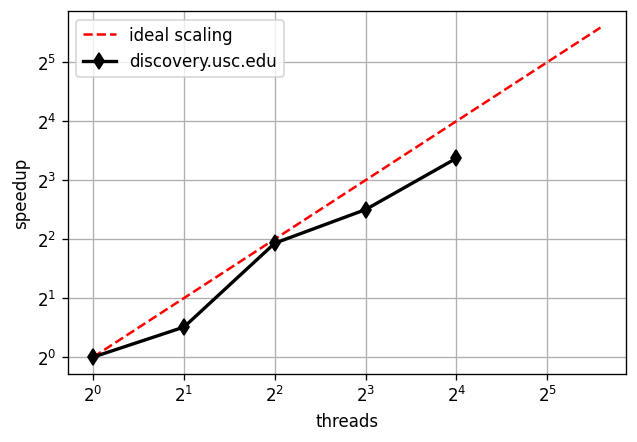
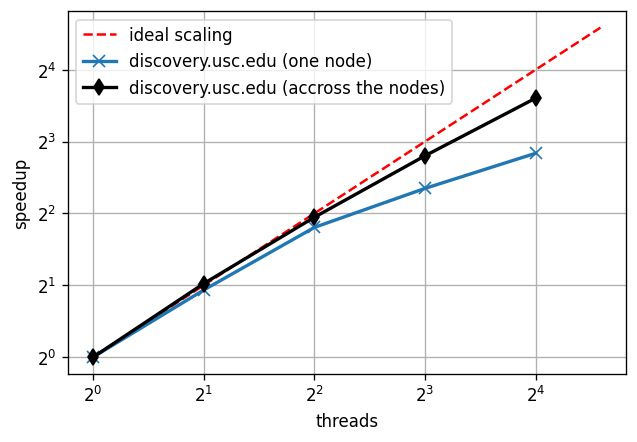
scalability accross the nodes - results

diff --git a/benchmarks/emulator/scalability_benchmark.py b/benchmarks/emulator/scalability_benchmark.py
@@ -20,7 +20,7 @@ class Emulator(ray.tune.Trainable):
     def setup(self, config):
         """Setup."""
         conf = global_config.Config(
-            datasets_path=os.path.realpath(os.path.expanduser(args.datasets_path)),
+            datasets_path=config['datasets_path'],
             model_name="demo-gru",
             hidden_size=config['hidden'],
             dropout_rate=config['dropout'],

diff --git a/benchmarks/emulator/README.md b/benchmarks/emulator/README.md
@@ -63,11 +63,27 @@ Where we specified to use 4 CPUs (see `python scalability_benchmark.py -h` to se
 
 ## Results
 
-We tested the scalability on the USC Discovery cluster running on 
+We tested the scalability on the USC Discovery cluster.
+We performed two experiments, one across the nodes (with the fixed number of cores per node),
+and second for one node (changing the number of available processors).
 
 ![Emulator Benchmark](../../figures/emulator_benchmark.png "Emulator Scalability Benchmark")
 
+The scalability across the nodes is close to ideal. The measured network
+traffic between two nodes was about 200 kB/s (for the central node the
+measured network traffic was 200*N kB/s where N is the number of nodes).
 
+The line showing the scalability for one node (blue) deviates from the ideal
+scaling more than the line for scalability across the nodes (black line).
+This might be an effect of the Intel Turbo Boost Technology being present. 
+When running our program on one node and scaling the number of available
+logical cores, the effective frequency of the involved cores depend on the
+total load of the processor. When only few logical cores are involved,
+their frequency is larger than the frequency of cores under more balanced load.
+This might explain the deviation of the blue line from the ideal scaling. 
+However, when measuring the scaling across the nodes, the frequency of each
+individual core is the same regardless how many cores are involved. Thus,
+we should observe smaller  deviation from the line of ideal scaling.
 
 ## Unit Tests
 
